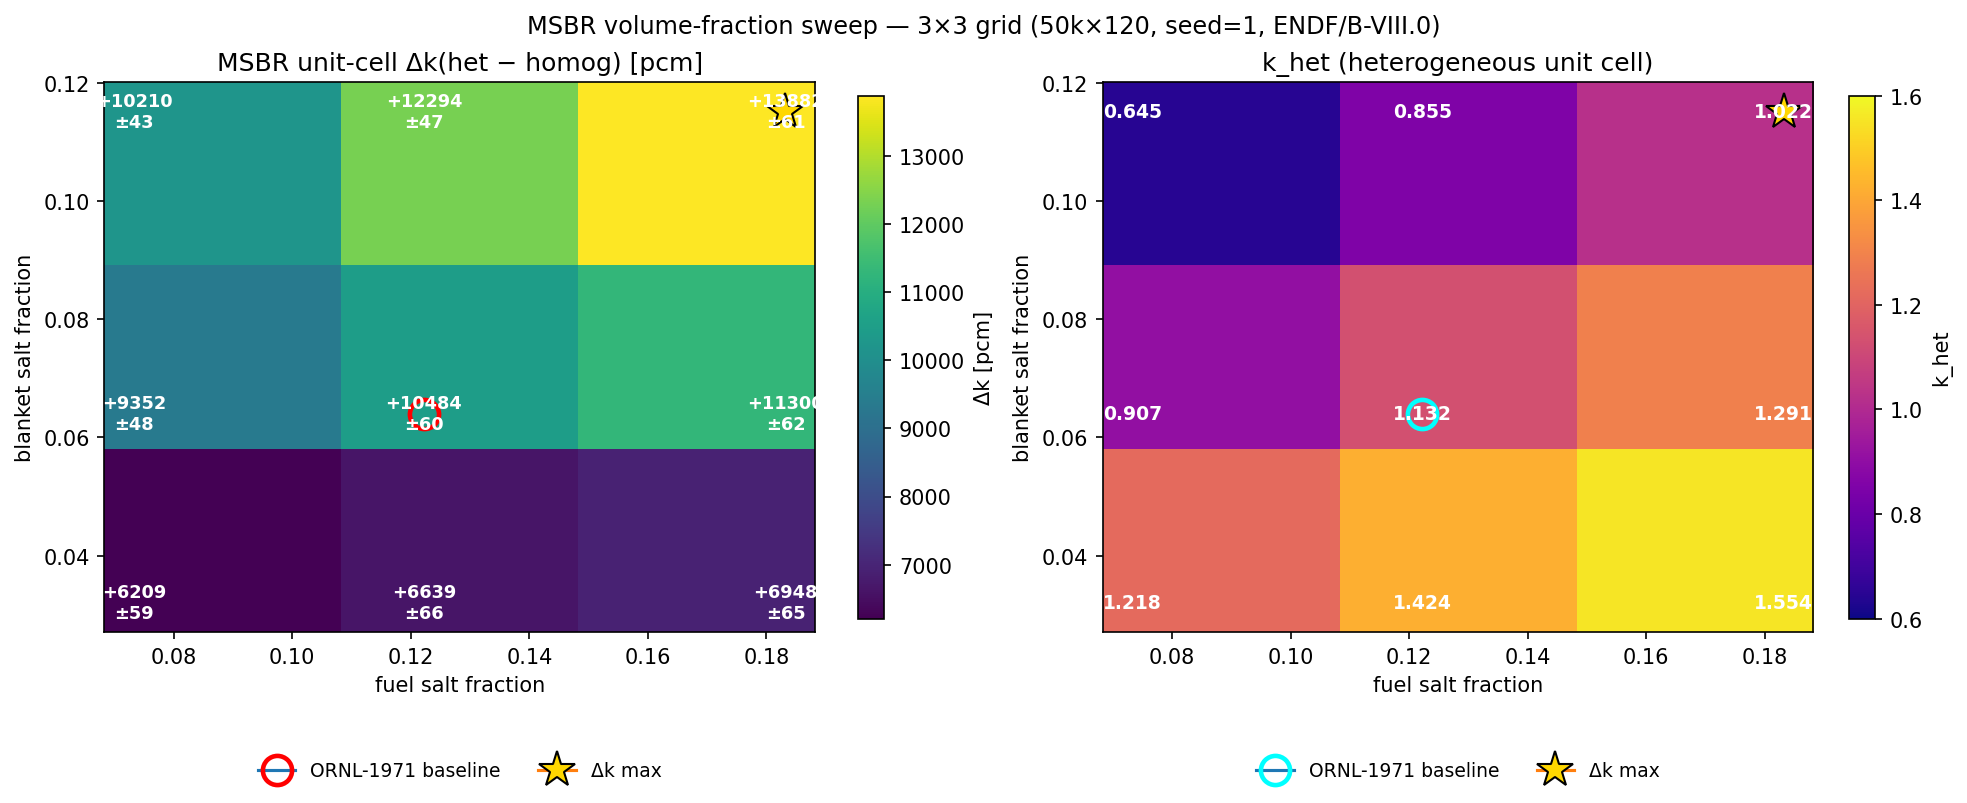
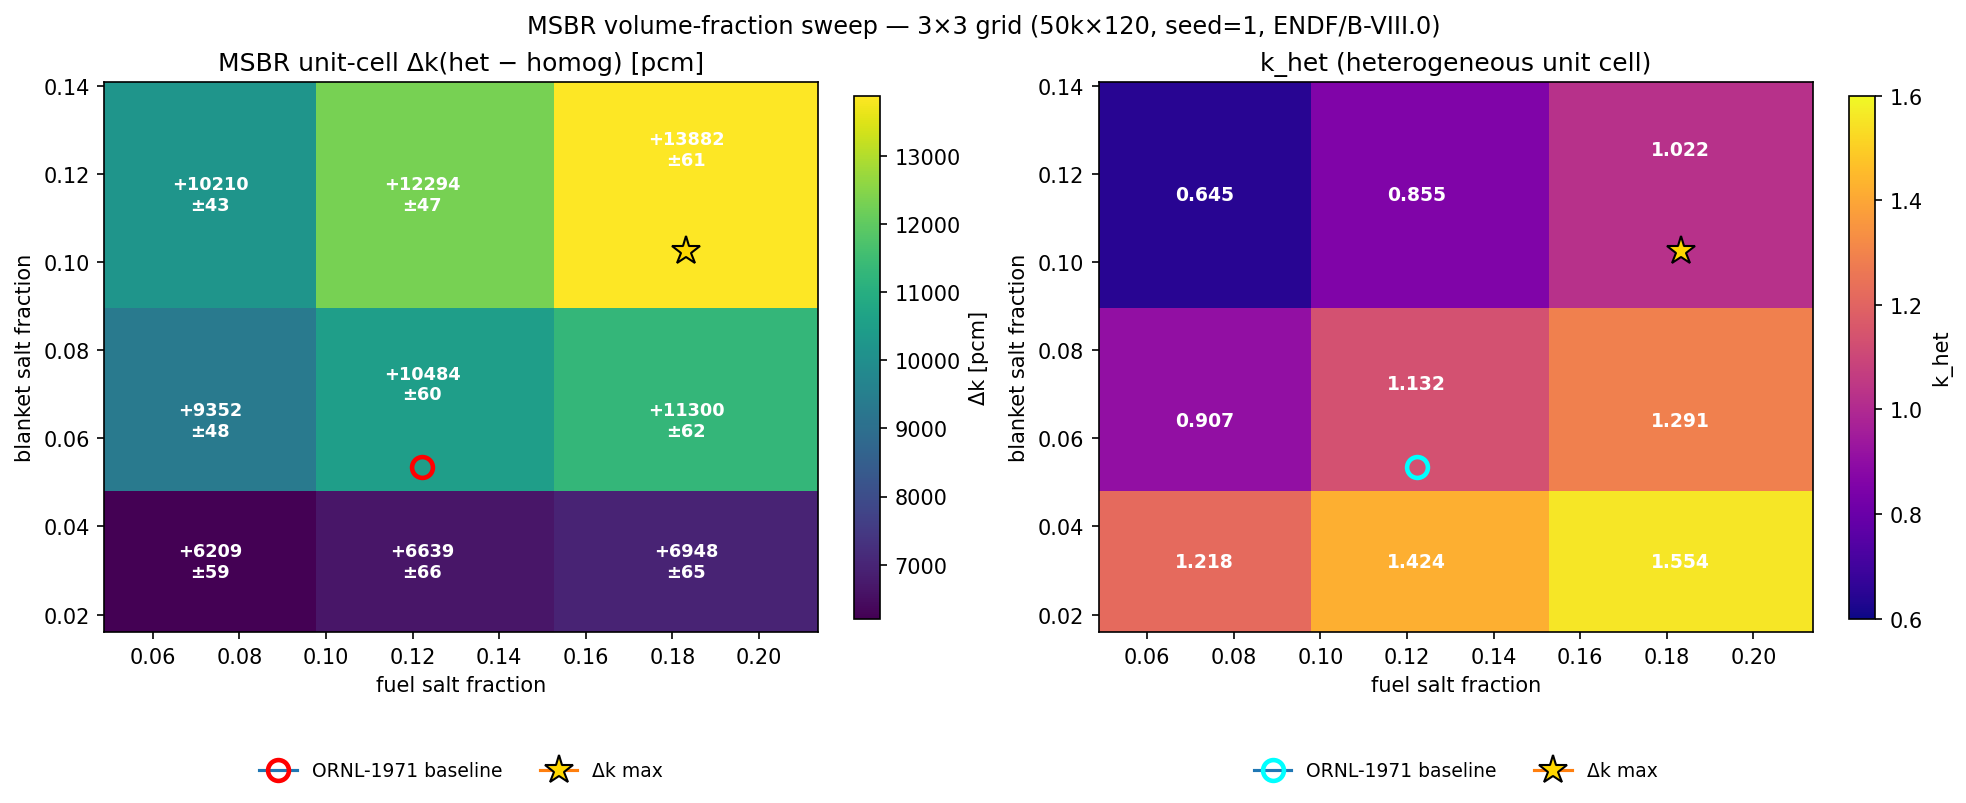
fix(plot): use pcolormesh with explicit cell edges for vf_sweep heatmap
Markers (ORNL circle, Δk-max star) now align with the cell they
represent rather than drifting due to non-uniform blanket-fraction
spacing in the imshow extent.

diff --git a/scripts/plotting/plot_vf_sweep.py b/scripts/plotting/plot_vf_sweep.py
@@ -51,32 +51,48 @@ def main() -> int:
 
     best = max(rows, key=lambda r: r["delta_pcm"])
 
+    # Build edge arrays for pcolormesh so each value sits at a true cell center.
+    def cell_edges(vals):
+        e = [vals[0] - (vals[1] - vals[0]) / 2]
+        for i in range(len(vals) - 1):
+            e.append((vals[i] + vals[i + 1]) / 2)
+        e.append(vals[-1] + (vals[-1] - vals[-2]) / 2)
+        return np.array(e)
+    fuel_edges = cell_edges(f_fuel_vals)
+    blank_edges = cell_edges(f_blank_vals)
+
     args.out.parent.mkdir(parents=True, exist_ok=True)
 
     fig, axes = plt.subplots(1, 2, figsize=(13, 5.2), constrained_layout=True)
 
     # Panel 1: Δk heatmap
     ax = axes[0]
-    im = ax.imshow(
-        Z, origin="lower", aspect="auto",
-        extent=[
-            min(f_fuel_vals) - 0.005, max(f_fuel_vals) + 0.005,
-            min(f_blank_vals) - 0.005, max(f_blank_vals) + 0.005,
-        ],
-        cmap="viridis",
+    im = ax.pcolormesh(
+        fuel_edges, blank_edges, Z,
+        cmap="viridis", shading="flat",
     )
-    # annotate each cell
+    # text at cell center, with row-dependent offset for highlighted cells so markers don't overlap
     for r in rows:
+        is_best = abs(r["f_fuel"]-best["f_fuel"])<1e-6 and abs(r["f_blanket"]-best["f_blanket"])<1e-6
+        is_ornl = abs(r["f_fuel"]-ORNL_FUEL)<1e-6 and abs(r["f_blanket"]-ORNL_BLANKET)<1e-6
+        # cell half-height in blanket axis
+        i = f_blank_vals.index(r["f_blanket"])
+        cell_h = blank_edges[i + 1] - blank_edges[i]
+        dy = +cell_h * 0.20 if (is_best or is_ornl) else 0.0
         ax.text(
-            r["f_fuel"], r["f_blanket"],
+            r["f_fuel"], r["f_blanket"] + dy,
             f"{int(r['delta_pcm']):+d}\n±{int(r['sigma_pcm'])}",
             ha="center", va="center", fontsize=8.5, color="white",
             fontweight="bold",
         )
-    # ORNL marker
-    ax.plot(ORNL_FUEL, ORNL_BLANKET, marker="o", markersize=14,
+    # markers placed below text inside their cell
+    ornl_i = f_blank_vals.index(ORNL_BLANKET)
+    ornl_dy = -0.25 * (blank_edges[ornl_i + 1] - blank_edges[ornl_i])
+    best_i = f_blank_vals.index(best["f_blanket"])
+    best_dy = -0.25 * (blank_edges[best_i + 1] - blank_edges[best_i])
+    ax.plot(ORNL_FUEL, ORNL_BLANKET + ornl_dy, marker="o", markersize=10,
             mfc="none", mec="red", mew=2.2, label="ORNL-1971 baseline")
-    ax.plot(best["f_fuel"], best["f_blanket"], marker="*", markersize=18,
+    ax.plot(best["f_fuel"], best["f_blanket"] + best_dy, marker="*", markersize=14,
             mfc="gold", mec="black", mew=1.0, label="Δk max")
     ax.set_xlabel("fuel salt fraction")
     ax.set_ylabel("blanket salt fraction")
@@ -88,24 +104,24 @@ def main() -> int:
 
     # Panel 2: k_het heatmap (for context — criticality landscape)
     ax = axes[1]
-    im2 = ax.imshow(
-        Khet, origin="lower", aspect="auto",
-        extent=[
-            min(f_fuel_vals) - 0.005, max(f_fuel_vals) + 0.005,
-            min(f_blank_vals) - 0.005, max(f_blank_vals) + 0.005,
-        ],
-        cmap="plasma", vmin=0.6, vmax=1.6,
+    im2 = ax.pcolormesh(
+        fuel_edges, blank_edges, Khet,
+        cmap="plasma", vmin=0.6, vmax=1.6, shading="flat",
     )
     for r in rows:
+        is_best = abs(r["f_fuel"]-best["f_fuel"])<1e-6 and abs(r["f_blanket"]-best["f_blanket"])<1e-6
+        is_ornl = abs(r["f_fuel"]-ORNL_FUEL)<1e-6 and abs(r["f_blanket"]-ORNL_BLANKET)<1e-6
+        i = f_blank_vals.index(r["f_blanket"])
+        cell_h = blank_edges[i + 1] - blank_edges[i]
+        dy = +cell_h * 0.20 if (is_best or is_ornl) else 0.0
         ax.text(
-            r["f_fuel"], r["f_blanket"], f"{r['k_het']:.3f}",
+            r["f_fuel"], r["f_blanket"] + dy, f"{r['k_het']:.3f}",
             ha="center", va="center", fontsize=9, color="white",
             fontweight="bold",
         )
-    # mark k=1 contour with simple per-row interpolation when feasible
-    ax.plot(ORNL_FUEL, ORNL_BLANKET, marker="o", markersize=14,
+    ax.plot(ORNL_FUEL, ORNL_BLANKET + ornl_dy, marker="o", markersize=10,
             mfc="none", mec="cyan", mew=2.2, label="ORNL-1971 baseline")
-    ax.plot(best["f_fuel"], best["f_blanket"], marker="*", markersize=18,
+    ax.plot(best["f_fuel"], best["f_blanket"] + best_dy, marker="*", markersize=14,
             mfc="gold", mec="black", mew=1.0, label="Δk max")
     ax.set_xlabel("fuel salt fraction")
     ax.set_ylabel("blanket salt fraction")
